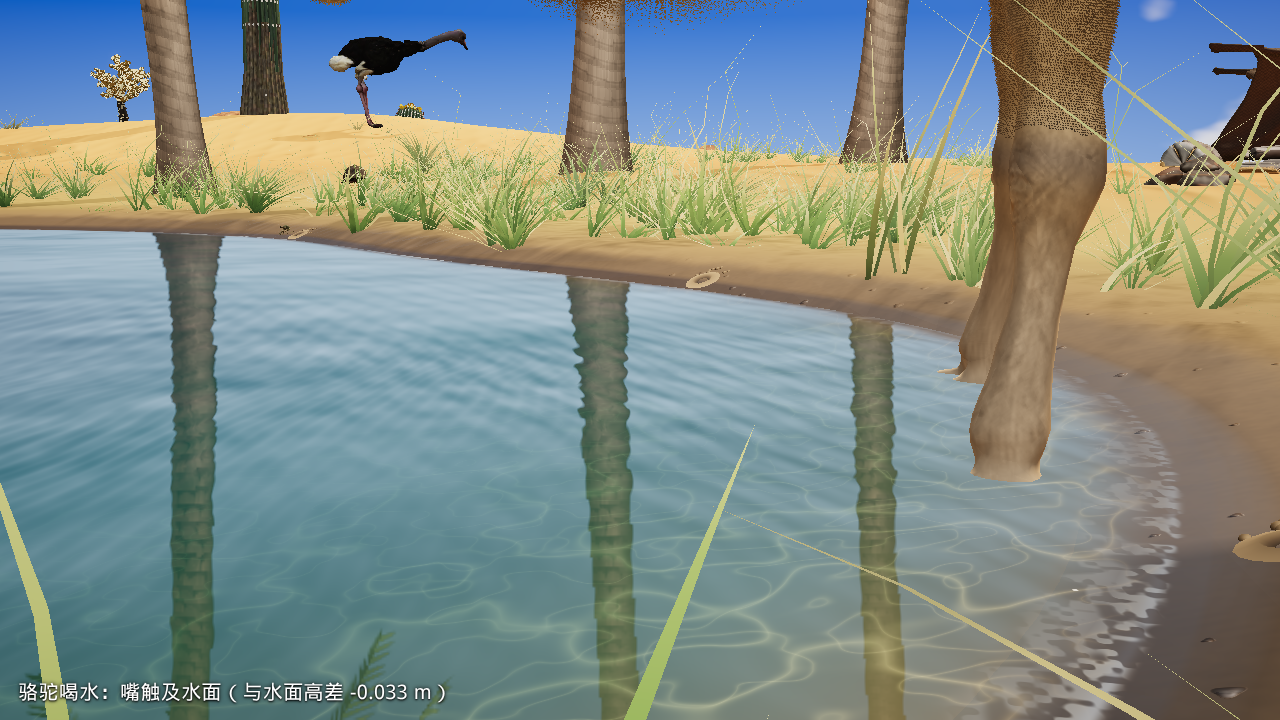
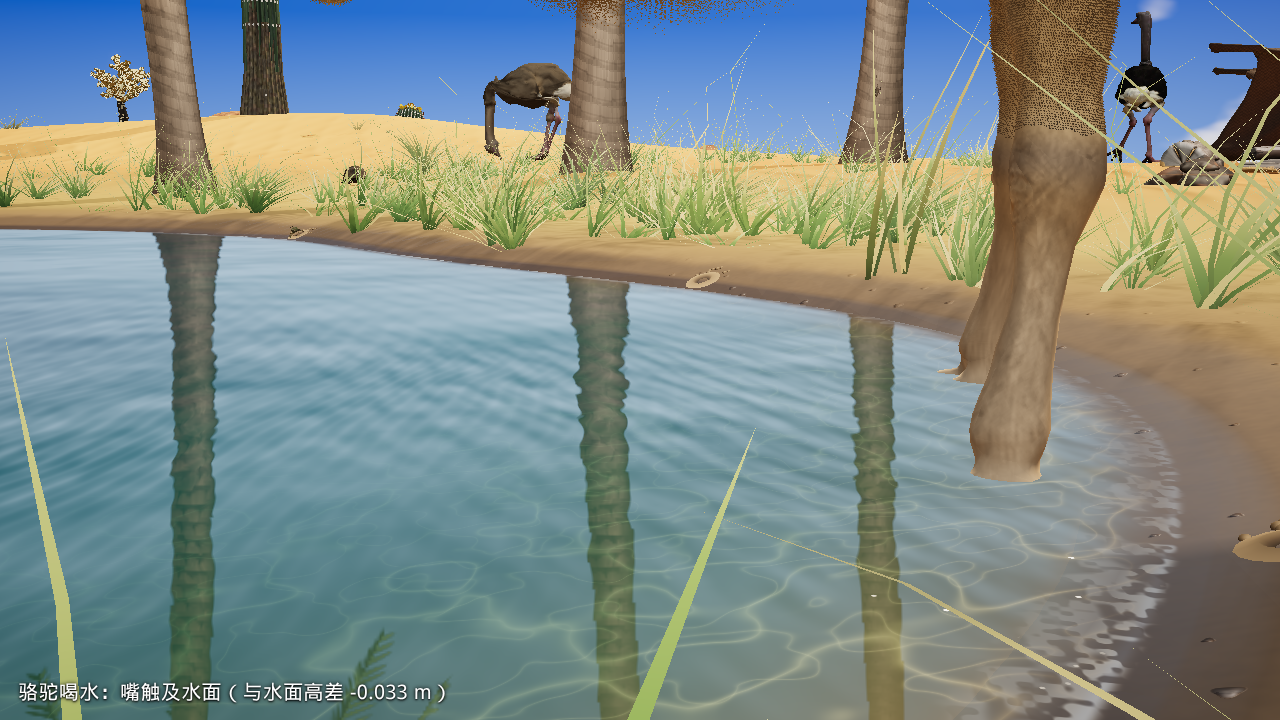
d178 proofs: drink and version re-run after rebasing onto #181, rebase note in compare.md

diff --git a/review-stack/shots/d178/compare.md b/review-stack/shots/d178/compare.md
@@ -128,6 +128,13 @@ main 和本分支交替各跑 4 轮（ORDER=rotate，顺序 本分支/main/main/
 - #177 的手机保护、手机档位、上下文丢失处理和降级卡片（app.js / ui.js / ui.css / build.py）和 main 完全一样。
 - 没有加新元素，没有用 Tripo。
 
+## 附：变基到含 #180 / #181 的 main
+
+- 本分支已经变基到 main `252ec00`（#180、#181 只改了 app/ui/boot 和 html，没动 `src/desert.js`）。重新构建后沙漠包还是 `desert.84f2b42026.js`，app/ui 包和 main 一样（`app.e39f7116fb.js`、`ui.84212e1e83.js`）。
+- 变基后在最终构建上重跑了喝水和版本：8 次全部通过，面板显示「版本 84f2b4」，match = true（`drink.json`、`panel_version.json/.png` 是变基后的结果）。
+- `perf.json` 是变基前（对 #178 的 main）测的 4 轮，比值 0.95。变基后对新 main 的交替测试推送时还没跑完：已经完成的 2 轮本分支 15.8 / 20.0 毫秒，main 19.4 / 15.3 毫秒，没有超过 200 毫秒的帧。PR 上的 clear-day-perf 会在新 main 上再测一次。
+- 五个风速（0 / 0.5 / 0.65 / 0.8 / 1.0）都测完了，没有缺的。
+
 ## 附：数据来源说明
 
 - 全部数字都是在最终包 `desert.84f2b42026.js` 上测的：螃蟹 6 分钟统计和 12 秒试验、鱼影、五个风速、雨/夜/结冰、喝水、版本、性能。
